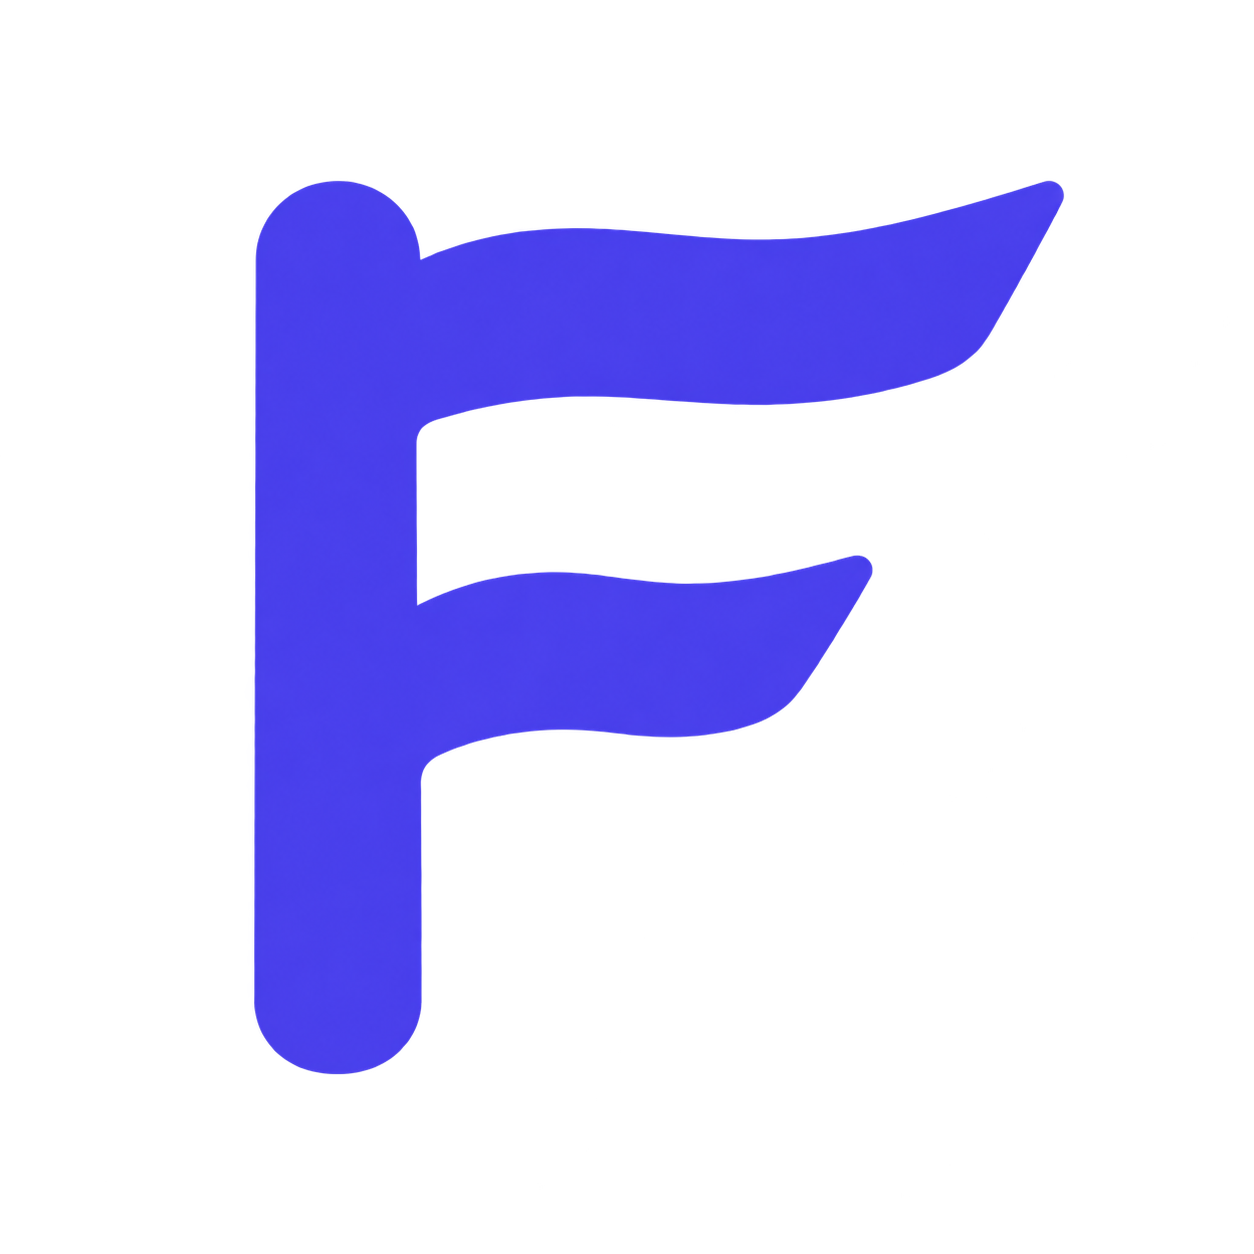
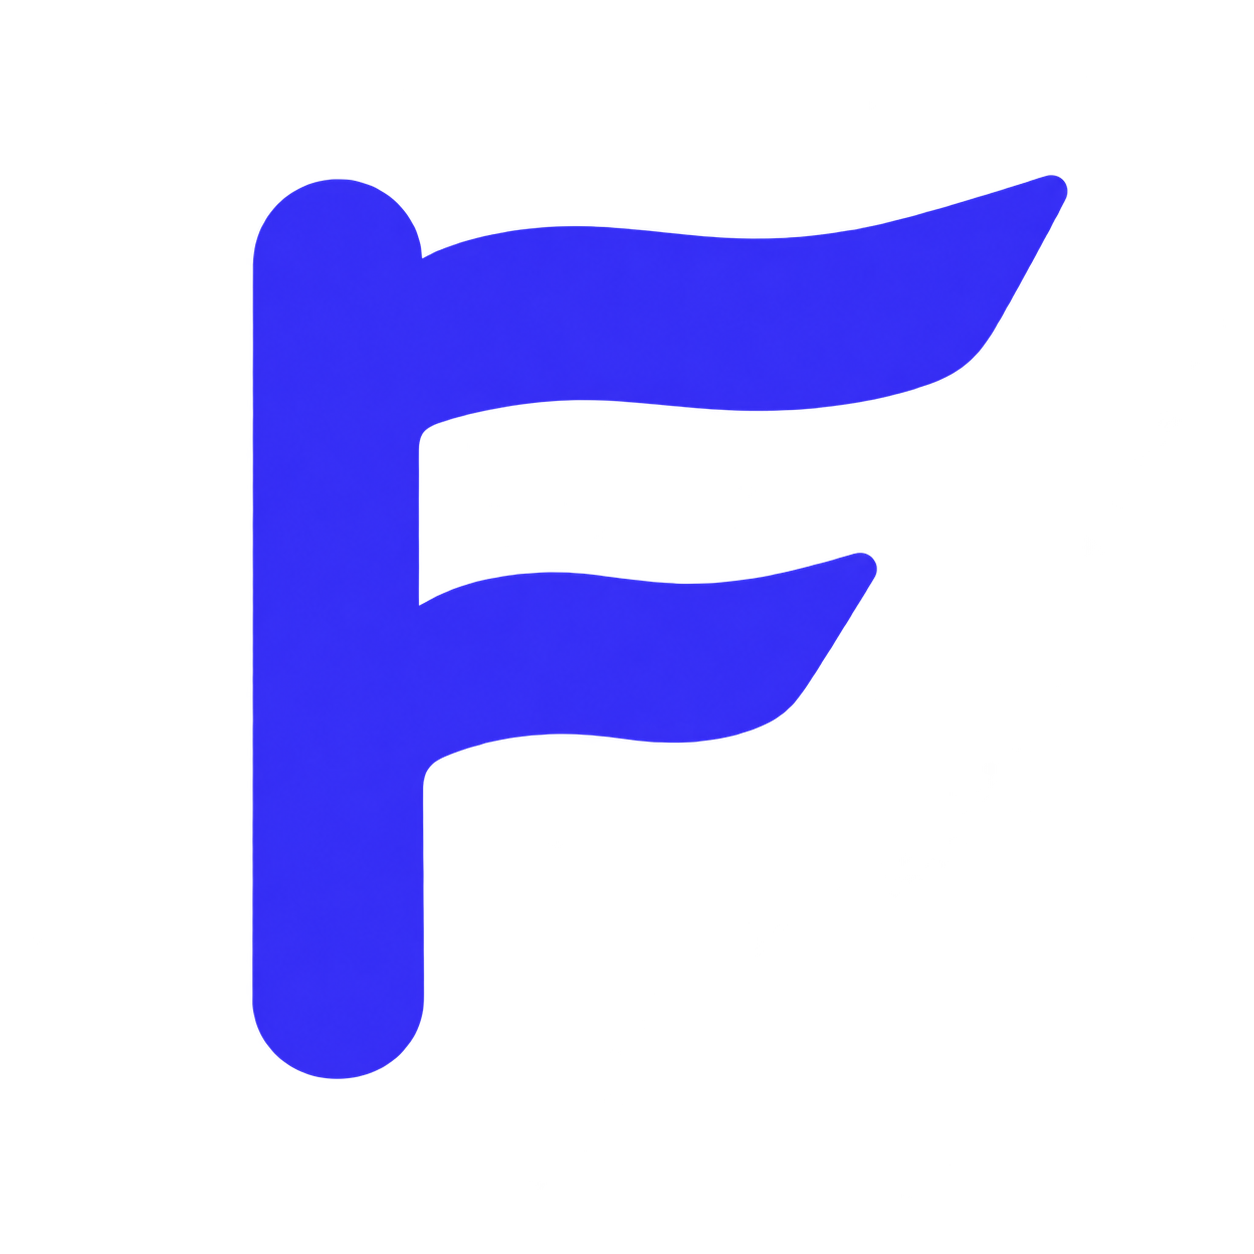
fix : 교체한 파비콘 적용과 캐시 갱신 #201

diff --git a/e2e/seo.spec.ts b/e2e/seo.spec.ts
@@ -19,7 +19,7 @@ for (const path of ["/", "/festivals", "/artists", "/festivals/21", "/artists/3"
     expect(head).toContain('property="og:description"');
     expect(head).toContain('content="https://www.every-festa.com/festa-og-image.jpg"');
     expect(head).toContain('name="twitter:card" content="summary_large_image"');
-    expect(head).toContain('href="/festa_symbol.png"');
+    expect(head).toContain('href="/festa_symbol.png?v=e225f8f0"');
     expect(head).not.toContain('href="/favicon.ico');
     expect(head).not.toContain("noindex");
     const title = head.match(/<title>(.*?)<\/title>/)?.[1];

diff --git a/src/app/layout.tsx b/src/app/layout.tsx
@@ -13,8 +13,8 @@ export const metadata: Metadata = {
   title: { default: SITE_TITLE, template: `%s | ${SITE_NAME}` },
   description: SITE_DESCRIPTION,
   icons: {
-    icon: { url: "/festa_symbol.png", type: "image/png" },
-    apple: { url: "/festa_symbol.png", type: "image/png" },
+    icon: { url: "/festa_symbol.png?v=e225f8f0", type: "image/png" },
+    apple: { url: "/festa_symbol.png?v=e225f8f0", type: "image/png" },
   },
 };
 

diff --git a/README.md b/README.md
@@ -33,7 +33,7 @@ This project uses [`next/font`](https://nextjs.org/docs/app/building-your-applic
 ## SEO 및 공유 이미지
 
 - 대표 주소: `https://www.every-festa.com` (`src/lib/seo.ts`). 루트 도메인은 현재 www로 리다이렉트됩니다.
-- 파비콘: `public/festa_symbol.png`에 정사각 PNG를 넣습니다. 최소 48×48, 권장 192×192 이상입니다.
+- 파비콘: `public/festa_symbol.png`에 정사각 PNG를 넣습니다. 최소 48×48, 권장 192×192 이상입니다. 교체하면 `src/app/layout.tsx`의 아이콘 URL 두 곳에 있는 `v` 값을 새 파일의 SHA-256 앞 8자리로 갱신해 이전 캐시와 구분합니다.
 - 공유 이미지: `public/festa-og-image.jpg` (1729×910, 약 312KB). 모든 공개 페이지가 이 이미지를 사용하며 제목·설명은 페이지별로 달라집니다. 교체할 때 실제 크기와 `src/lib/seo.ts`의 크기 정보를 맞춥니다.
 - `/sitemap.xml`은 공개 축제·아티스트 전체 목록과 축제가 등록된 학교·학교 이력을 포함합니다. 별도 공개 학교 목록 API가 없어 축제가 없는 학교는 사이트맵에 포함하지 않습니다.
 - 관리자·showcase·내부 검색·검색 필터 조합은 검색에서 제외합니다. 기본 목록의 페이지네이션은 별도 대표 URL을 유지합니다. Vercel의 production 외 환경은 응답 헤더로 전체 검색 제외합니다.
